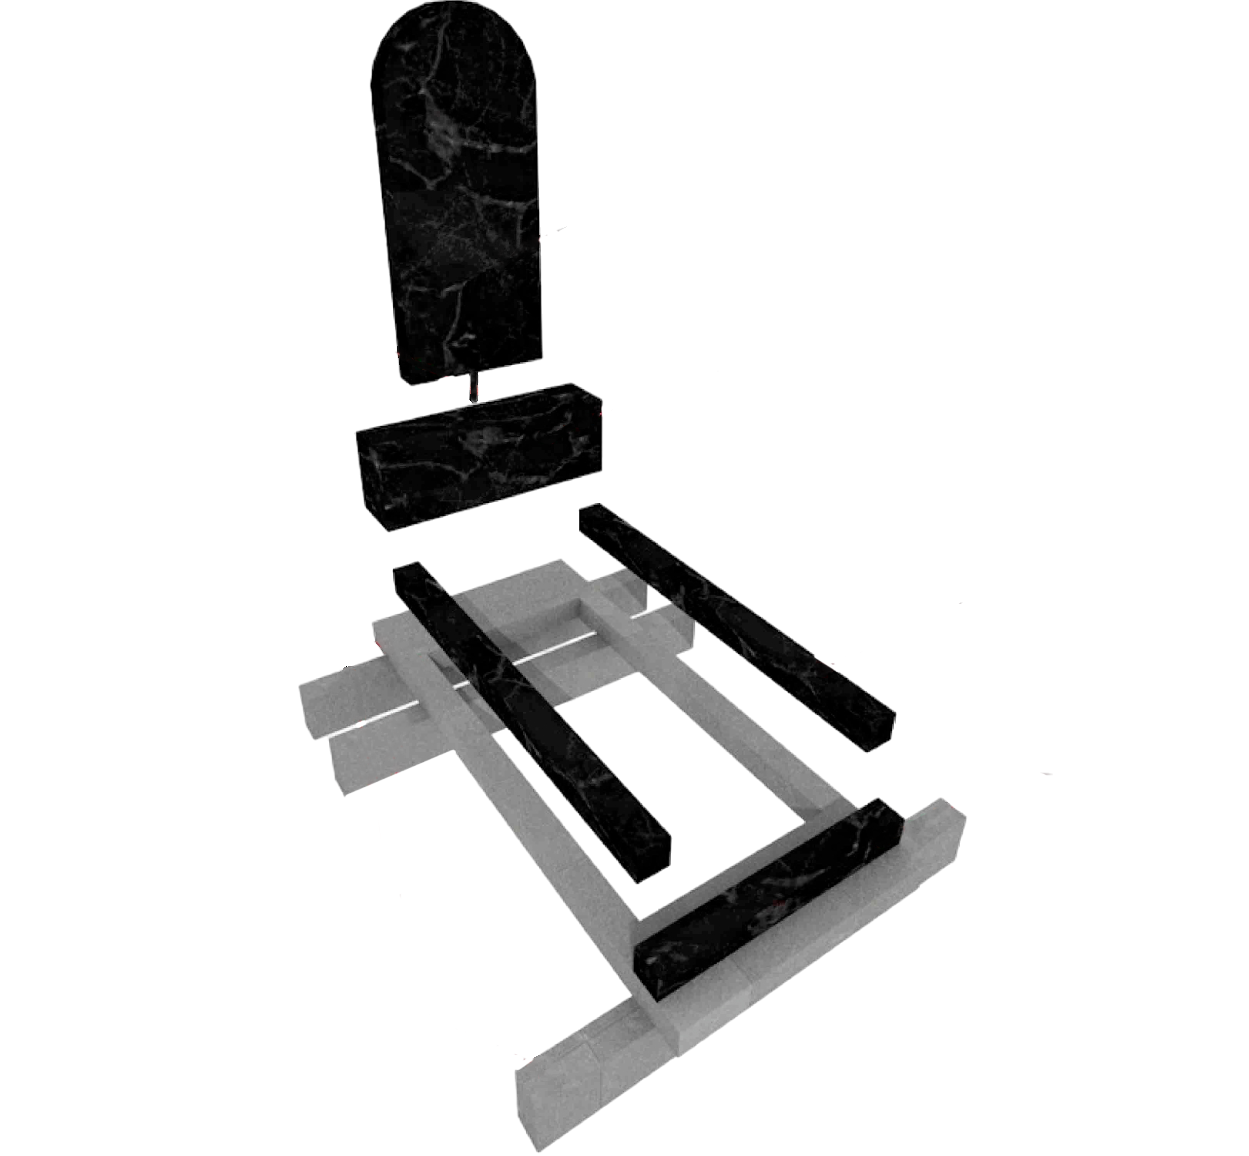
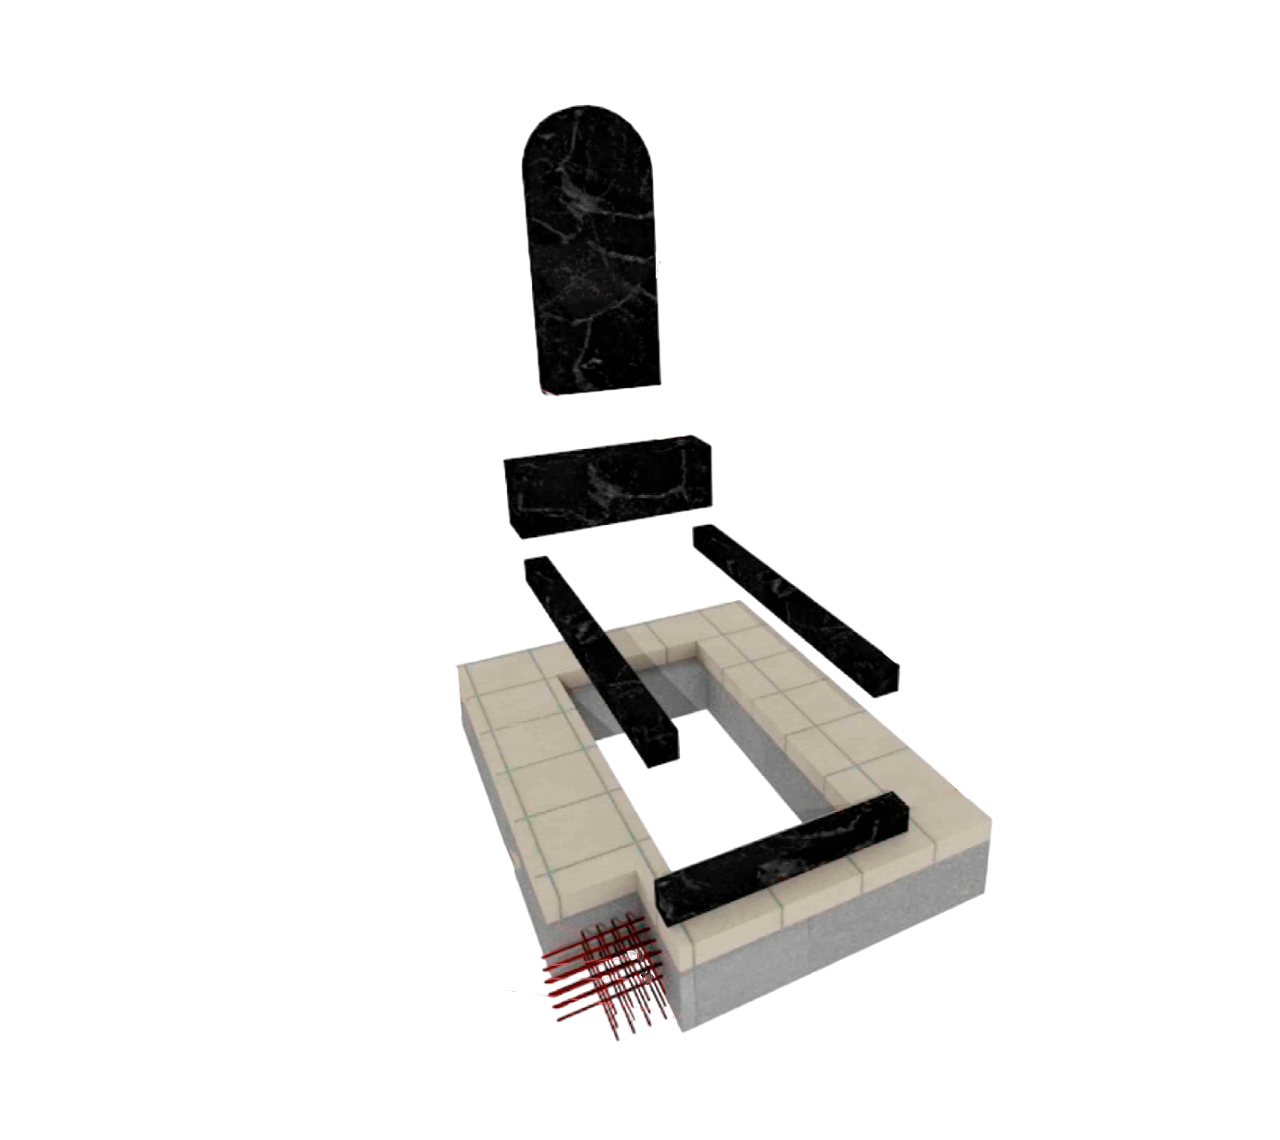
FIX

Changed region(s): [[0.2186, 0.0, 0.7806, 1.0]]

diff --git a/#src/templates/theme/pages/service/service-test.html b/#src/templates/theme/pages/service/service-test.html
@@ -9,7 +9,7 @@
   <div class="wrapper">
     <div class="hero">
       <div class="hero__container">
-        <img src="{% static 'theme/mb/images/third-image.png' %}" alt="" class="hero__image" />
+        <img src="{% static 'theme/mb/images/first-image.png' %}" alt="" class="hero__image" />
         <div class="hero__inner">
           <div class="breadcrumbs" itemscope="" itemtype="http://schema.org/BreadcrumbList">
             <a href="" itemprop="itemListElement" itemscope="" itemtype="http://schema.org/ListItem"

diff --git a/main/core/theme/mb/templates/pages/service/service-test.html b/main/core/theme/mb/templates/pages/service/service-test.html
@@ -9,7 +9,7 @@
   <div class="wrapper">
     <div class="hero">
       <div class="hero__container">
-        <img src="{% static 'theme/mb/images/third-image.png' %}" alt="" class="hero__image" />
+        <img src="{% static 'theme/mb/images/first-image.png' %}" alt="" class="hero__image" />
         <div class="hero__inner">
           <div class="breadcrumbs" itemscope="" itemtype="http://schema.org/BreadcrumbList">
             <a href="" itemprop="itemListElement" itemscope="" itemtype="http://schema.org/ListItem"
